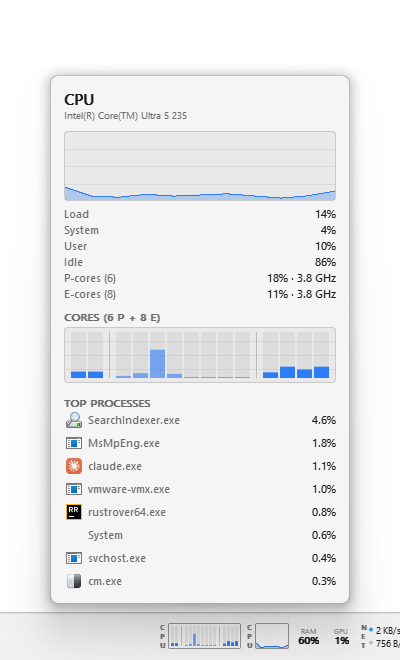
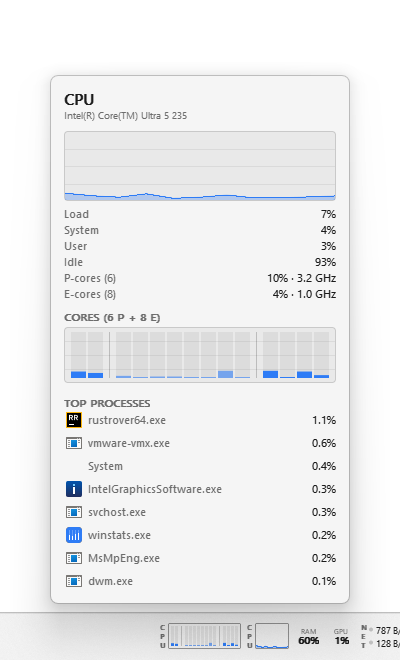
Popup: the system flyout shadow only on Windows 11, a faint own one on Windows 10

diff --git a/src/popup.rs b/src/popup.rs
@@ -557,15 +557,21 @@ impl Popup {
                 let hdc = GetDC(self.hwnd);
                 self.canvas.paint_dc(hdc);
                 ReleaseDC(self.hwnd, hdc);
-                // the soft shadow in its own layered window right under the popup
-                let halo = blur + sh_dy;
-                let shadow = Color::rgba(0, 0, 0, if light { 26 } else { 70 });
-                self.shadow_canvas.resize(w + halo * 2, h + halo * 2);
-                self.shadow_canvas.clear();
-                self.shadow_canvas.fill_shadow(halo, halo, w, h, r, blur as f32, sh_dy, shadow);
-                let _ = SetWindowPos(self.shadow, self.hwnd, x - halo, y - halo, w + halo * 2, h + halo * 2, SWP_NOACTIVATE | SWP_SHOWWINDOW);
-                if let Err(e) = self.shadow_canvas.present_at(self.shadow, x - halo, y - halo) {
-                    crate::log!("shadow UpdateLayeredWindow failed: {e}");
+                // the Windows 11 transient backdrop brings the faint flyout shadow of its own;
+                // the Windows 10 accent policy does not, so a faint one goes into the layered
+                // window underneath
+                if self.backdrop == crate::backdrop::Mode::Accent {
+                    let halo = blur + sh_dy;
+                    let shadow = Color::rgba(0, 0, 0, if light { 16 } else { 48 });
+                    self.shadow_canvas.resize(w + halo * 2, h + halo * 2);
+                    self.shadow_canvas.clear();
+                    self.shadow_canvas.fill_shadow(halo, halo, w, h, r, blur as f32, sh_dy, shadow);
+                    let _ = SetWindowPos(self.shadow, self.hwnd, x - halo, y - halo, w + halo * 2, h + halo * 2, SWP_NOACTIVATE | SWP_SHOWWINDOW);
+                    if let Err(e) = self.shadow_canvas.present_at(self.shadow, x - halo, y - halo) {
+                        crate::log!("shadow UpdateLayeredWindow failed: {e}");
+                    }
+                } else {
+                    let _ = ShowWindow(self.shadow, SW_HIDE);
                 }
             }
             if first {
